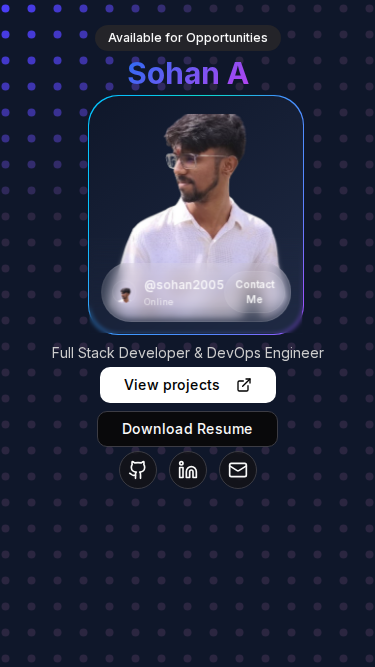
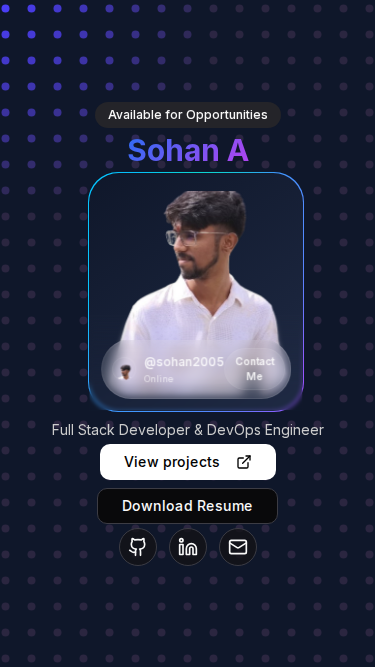
Fix: Ensure hero section fits perfectly on mobile viewport
The hero section's content was overflowing on mobile devices, and the layout was not visually balanced. The profile card's avatar was also improperly scaled and aligned.

This commit addresses these issues through a comprehensive set of adjustments targeted at mobile viewports:

- **Layout & Sizing:**
  - Replaced `min-h-screen` with `min-h-[100svh]` on the hero section to account for mobile browser UI.
  - Vertically centered the content with `items-center` to ensure a balanced layout.
  - Reduced font sizes, margins, button sizes, and icon sizes in `hero-section.tsx` for a more compact mobile layout.
  - Adjusted the `max-height` and `aspect-ratio` of the profile card in `ProfileCard.css` to reduce its vertical footprint.
  - Corrected the `object-position` of the avatar in `ProfileCard.css` to ensure it is centered correctly.

- **Verification:**
  - Added a delay to the Playwright verification script to ensure an accurate screenshot is captured after animations complete.

These changes are scoped to mobile viewports using responsive classes and do not affect the desktop layout. The final result is a hero section that is both functional and visually appealing on mobile devices.

diff --git a/src/components/hero-section.tsx b/src/components/hero-section.tsx
@@ -26,7 +26,7 @@ export function HeroSection() {
   return (
     <>
       {/* HERO with DotGrid background */}
-      <section id="home" className="min-h-[100svh] flex items-start justify-center pt-6 sm:items-center sm:pt-0 relative overflow-hidden bg-slate-900">
+      <section id="home" className="min-h-[100svh] flex items-center justify-center relative overflow-hidden bg-slate-900">
         {/* Dot Grid Background */}
         <div style={{ width: '100%', height: '100%', position: 'absolute', top: 0, left: 0, zIndex: 1 }}>
           <DotGrid
